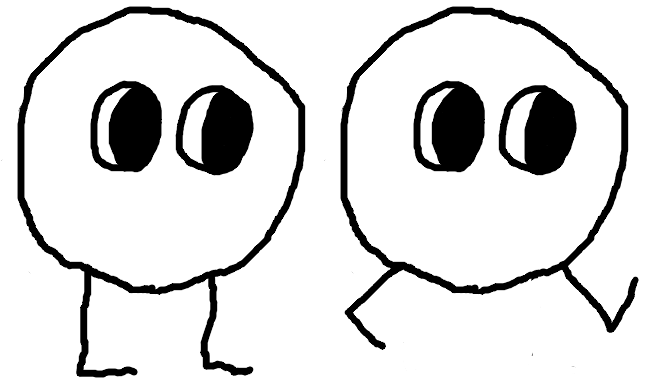
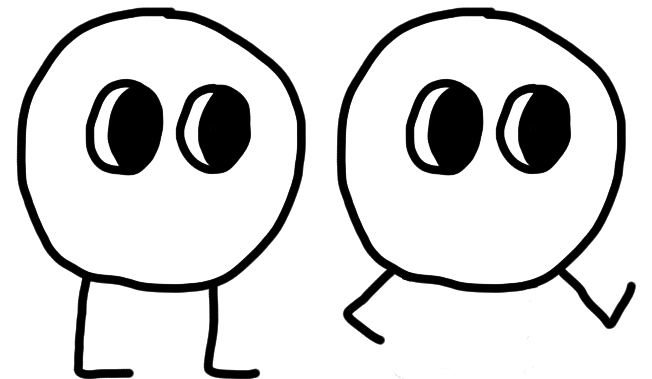
update player texture and add function to change the screen clear color

diff --git a/src/engine/renderer.h b/src/engine/renderer.h
@@ -2,6 +2,15 @@
 #define RENDERER_H
 
 #include <SDL2/SDL.h>
+#include <stdint.h>
+
+typedef struct {
+	uint8_t r;
+	uint8_t g;
+	uint8_t b;
+} color;
+extern color screenClearColor;
+void setScreenClearColor(uint8_t r, uint8_t g, uint8_t b);
 
 extern SDL_Window* window;
 extern SDL_Renderer* renderer;

diff --git a/src/game/gameLoop.c b/src/game/gameLoop.c
@@ -59,7 +59,7 @@ int gameLoop() {
 		}
 		
 		// Clear the screen/renderer
-		SDL_SetRenderDrawColor(renderer,0,0,0,255);
+		SDL_SetRenderDrawColor(renderer, screenClearColor.r, screenClearColor.g, screenClearColor.b, 255);
 		SDL_RenderClear(renderer);
 		
 		// Run the current game state

diff --git a/src/engine/renderer.c b/src/engine/renderer.c
@@ -2,3 +2,13 @@
  
 SDL_Window* window = NULL;
 SDL_Renderer* renderer = NULL;
+
+color screenClearColor;
+
+void setScreenClearColor(uint8_t r, uint8_t g, uint8_t b) {
+	screenClearColor = (color){
+		.r = r,
+		.g = g,
+		.b = b
+	};
+}

diff --git a/src/game/gameStates/gameStateRunning.c b/src/game/gameStates/gameStateRunning.c
@@ -38,6 +38,7 @@ struct entity* player;
 
 void initGameStateRunning(){
 	player = createPlayer(50, 50, 100, 100);
+	setScreenClearColor(127, 127, 127);
 	
 	fpsCounterFontRes = loadResource(RES_TYPE_FONT, "TerminusTTF-4.47.0.ttf");
 	
